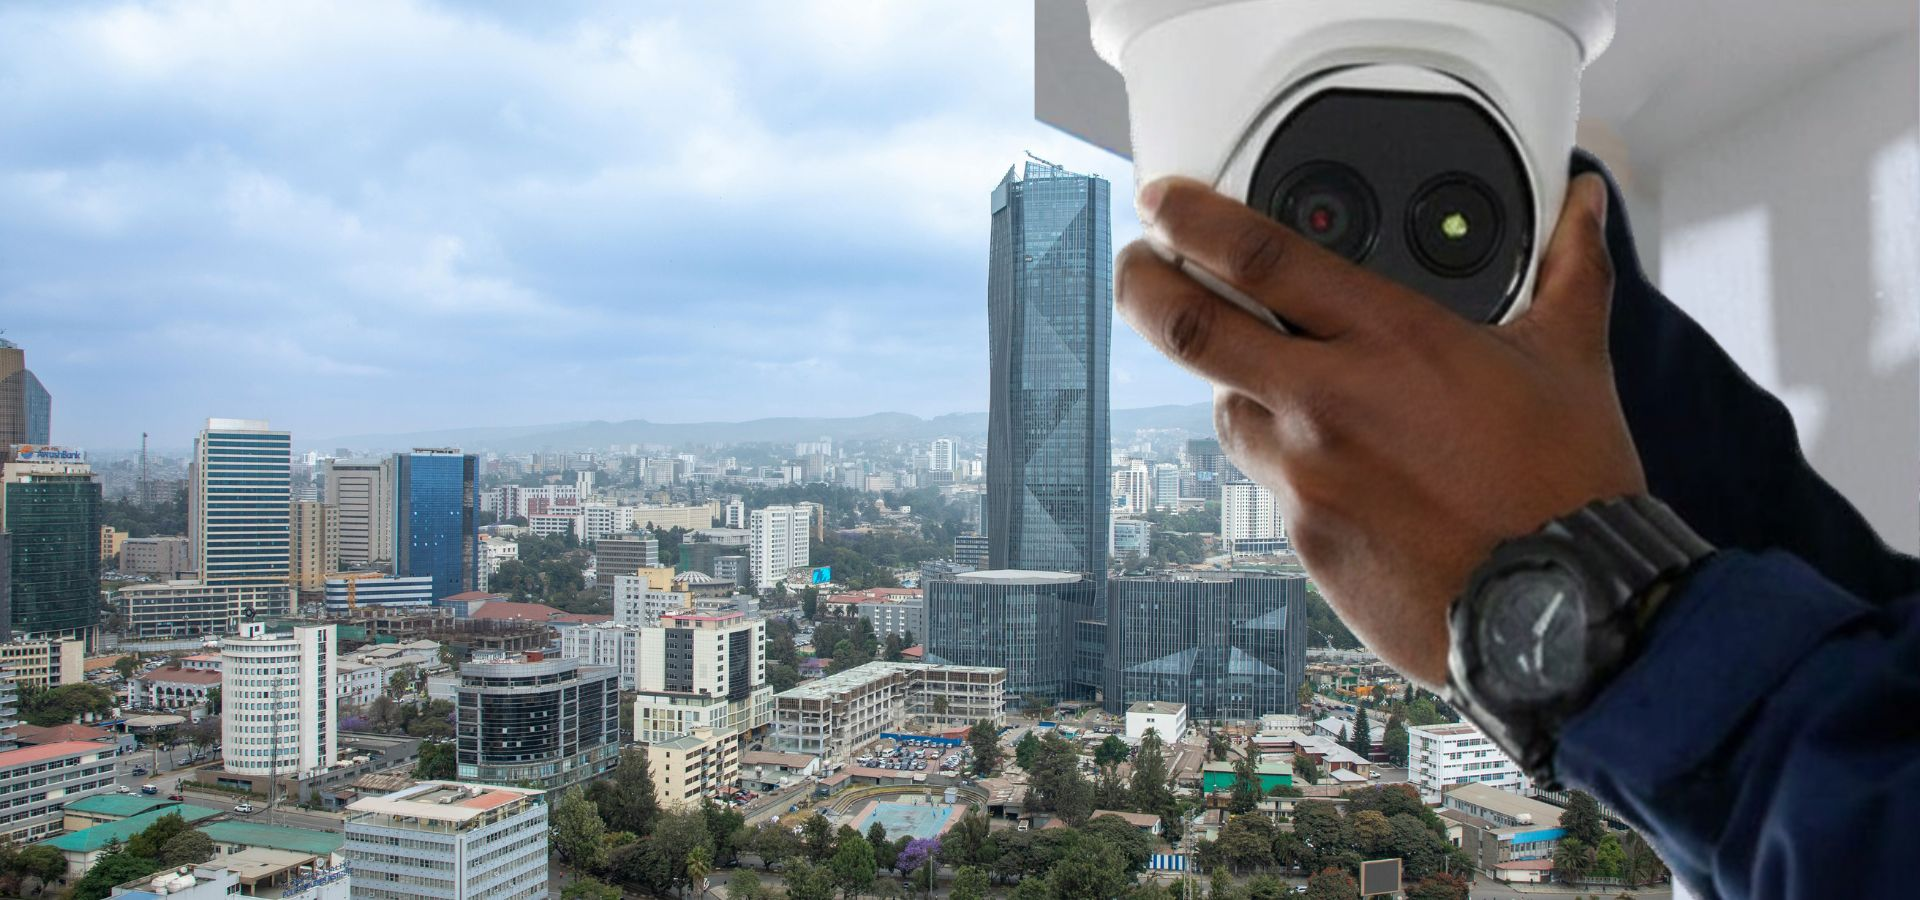
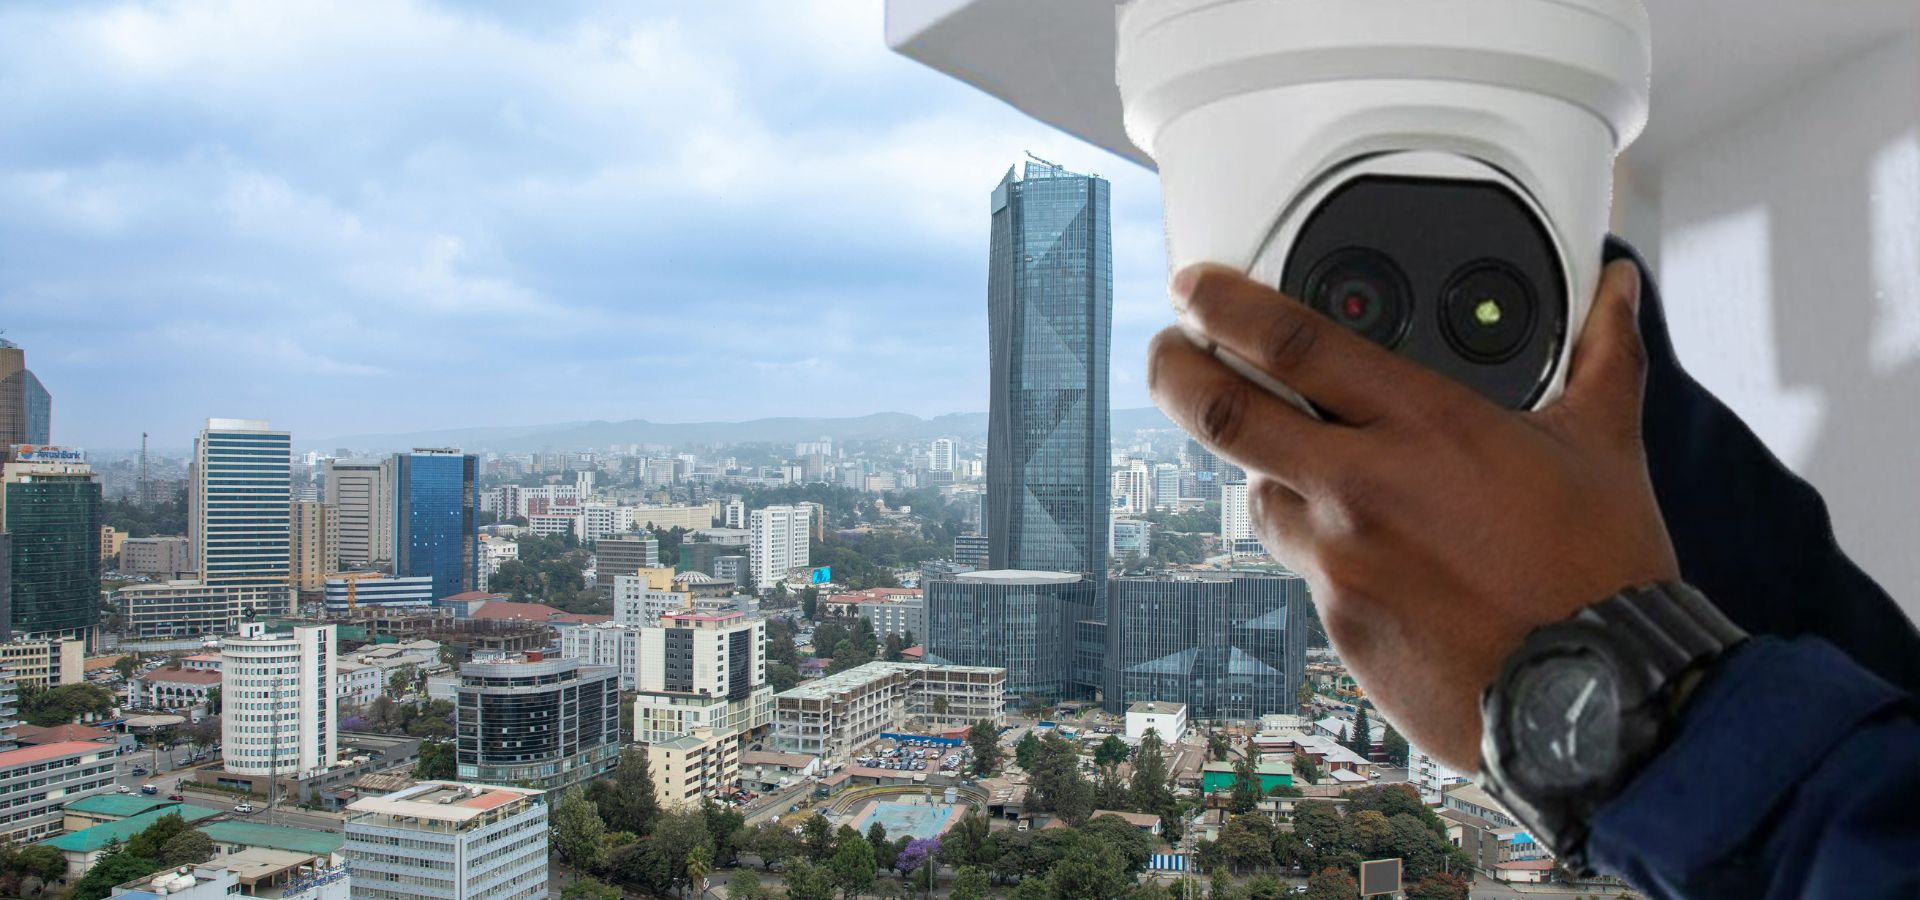
updation

diff --git a/src/components/ChatWidget.jsx b/src/components/ChatWidget.jsx
@@ -1,184 +1,30 @@
-import React, { useState, useEffect, useRef } from 'react';
-import { X, Send, MessageCircle, CheckCheck, Clock } from 'lucide-react';
-import './ChatWidget.css';
+import { useEffect } from 'react';
 
-const BOT_DELAY = 900; // ms before bot auto-replies
-
-const INITIAL_MESSAGES = [
-  {
-    id: 1,
-    from: 'bot',
-    text: '👋 Hi there! Welcome to **SafeHive**. How can we help you today?',
-    time: new Date(),
-  },
-];
-
-const AUTO_REPLIES = [
-  "Thanks for reaching out! One of our security experts will get back to you shortly. You can also call us at **[phone redacted]**.",
-  "Great question! Our team will review your message and reply as soon as possible — usually within a few hours.",
-  "We appreciate you contacting SafeHive! A specialist will follow up with you very soon. 🔒",
-];
-let replyIndex = 0;
-
-function formatTime(date) {
-  return date.toLocaleTimeString([], { hour: '2-digit', minute: '2-digit' });
-}
-
-function renderText(text) {
-  // Bold **text**
-  return text.split(/(\*\*[^*]+\*\*)/g).map((part, i) => {
-    if (part.startsWith('**') && part.endsWith('**')) {
-      return <strong key={i}>{part.slice(2, -2)}</strong>;
-    }
-    return part;
-  });
-}
-
+/**
+ * Tawk.to Live Chat Widget
+ * Loads the Tawk.to embed script once on mount.
+ * All UI is rendered by Tawk.to — no custom markup needed.
+ */
 export default function ChatWidget() {
-  const [open, setOpen] = useState(false);
-  const [messages, setMessages] = useState(INITIAL_MESSAGES);
-  const [input, setInput] = useState('');
-  const [typing, setTyping] = useState(false);
-  const [bounce, setBounce] = useState(false);
-  const [unread, setUnread] = useState(1);
-  const bottomRef = useRef(null);
-  const inputRef = useRef(null);
-
-  // Pulse the button after 6 seconds if not opened
   useEffect(() => {
-    const t = setTimeout(() => setBounce(true), 6000);
-    return () => clearTimeout(t);
+    // Prevent double-loading if already present
+    if (window.Tawk_API) return;
+
+    window.Tawk_API = window.Tawk_API || {};
+    window.Tawk_LoadStart = new Date();
+
+    const script = document.createElement('script');
+    script.async = true;
+    script.src = 'https://embed.tawk.to/6a382feba653051d4007ff13/1jrlnmh0g';
+    script.charset = 'UTF-8';
+    script.setAttribute('crossorigin', '*');
+    document.head.appendChild(script);
+
+    return () => {
+      // Cleanup on unmount (unlikely for a global widget, but good practice)
+      document.head.removeChild(script);
+    };
   }, []);
 
-  // Auto-scroll to bottom
-  useEffect(() => {
-    bottomRef.current?.scrollIntoView({ behavior: 'smooth' });
-  }, [messages, typing]);
-
-  // Focus input when chat opens
-  useEffect(() => {
-    if (open) {
-      setUnread(0);
-      setTimeout(() => inputRef.current?.focus(), 300);
-    }
-  }, [open]);
-
-  const sendMessage = () => {
-    const text = input.trim();
-    if (!text) return;
-
-    const userMsg = { id: Date.now(), from: 'user', text, time: new Date() };
-    setMessages((prev) => [...prev, userMsg]);
-    setInput('');
-    setTyping(true);
-
-    setTimeout(() => {
-      const reply = AUTO_REPLIES[replyIndex % AUTO_REPLIES.length];
-      replyIndex++;
-      setMessages((prev) => [
-        ...prev,
-        { id: Date.now() + 1, from: 'bot', text: reply, time: new Date() },
-      ]);
-      setTyping(false);
-    }, BOT_DELAY);
-  };
-
-  const handleKey = (e) => {
-    if (e.key === 'Enter' && !e.shiftKey) {
-      e.preventDefault();
-      sendMessage();
-    }
-  };
-
-  return (
-    <>
-      {/* Chat Panel */}
-      <div className={`chat-widget-panel ${open ? 'chat-open' : ''}`}>
-        {/* Header */}
-        <div className="chat-widget-header">
-          <div className="chat-header-left">
-            <div className="chat-avatar">
-              <img src="/assets/safehive.png" alt="SafeHive" />
-              <span className="chat-status-dot" />
-            </div>
-            <div>
-              <p className="chat-header-name">SafeHive Support</p>
-              <p className="chat-header-status">🟢 Online — replies instantly</p>
-            </div>
-          </div>
-          <button className="chat-close-btn" onClick={() => setOpen(false)} aria-label="Close chat">
-            <X size={18} />
-          </button>
-        </div>
-
-        {/* Messages */}
-        <div className="chat-messages">
-          {messages.map((msg) => (
-            <div key={msg.id} className={`chat-msg-row ${msg.from === 'user' ? 'user-row' : 'bot-row'}`}>
-              {msg.from === 'bot' && (
-                <div className="chat-msg-avatar">
-                  <img src="/assets/safehive.png" alt="bot" />
-                </div>
-              )}
-              <div className={`chat-bubble ${msg.from === 'user' ? 'bubble-user' : 'bubble-bot'}`}>
-                <p>{renderText(msg.text)}</p>
-                <span className="chat-time">
-                  {formatTime(msg.time)}
-                  {msg.from === 'user' && <CheckCheck size={13} className="chat-tick" />}
-                </span>
-              </div>
-            </div>
-          ))}
-
-          {/* Typing indicator */}
-          {typing && (
-            <div className="chat-msg-row bot-row">
-              <div className="chat-msg-avatar">
-                <img src="/assets/safehive.png" alt="bot" />
-              </div>
-              <div className="chat-bubble bubble-bot typing-bubble">
-                <span /><span /><span />
-              </div>
-            </div>
-          )}
-
-          <div ref={bottomRef} />
-        </div>
-
-        {/* Input */}
-        <div className="chat-input-area">
-          <textarea
-            ref={inputRef}
-            className="chat-input"
-            placeholder="Type your message..."
-            value={input}
-            onChange={(e) => setInput(e.target.value)}
-            onKeyDown={handleKey}
-            rows={1}
-          />
-          <button
-            className={`chat-send-btn ${input.trim() ? 'active' : ''}`}
-            onClick={sendMessage}
-            aria-label="Send message"
-          >
-            <Send size={18} />
-          </button>
-        </div>
-
-        <p className="chat-footer-note">
-          Powered by <strong>SafeHive</strong> · We typically reply in minutes
-        </p>
-      </div>
-
-      {/* Floating Bubble */}
-      <button
-        className={`chat-fab ${bounce ? 'chat-fab-bounce' : ''} ${open ? 'chat-fab-open' : ''}`}
-        onClick={() => { setOpen((v) => !v); setBounce(false); }}
-        aria-label="Open live chat"
-      >
-        {open ? <X size={26} /> : <MessageCircle size={26} />}
-        {!open && unread > 0 && <span className="chat-unread-badge">{unread}</span>}
-      </button>
-    </>
-  );
+  return null; // Tawk.to renders its own floating widget
 }